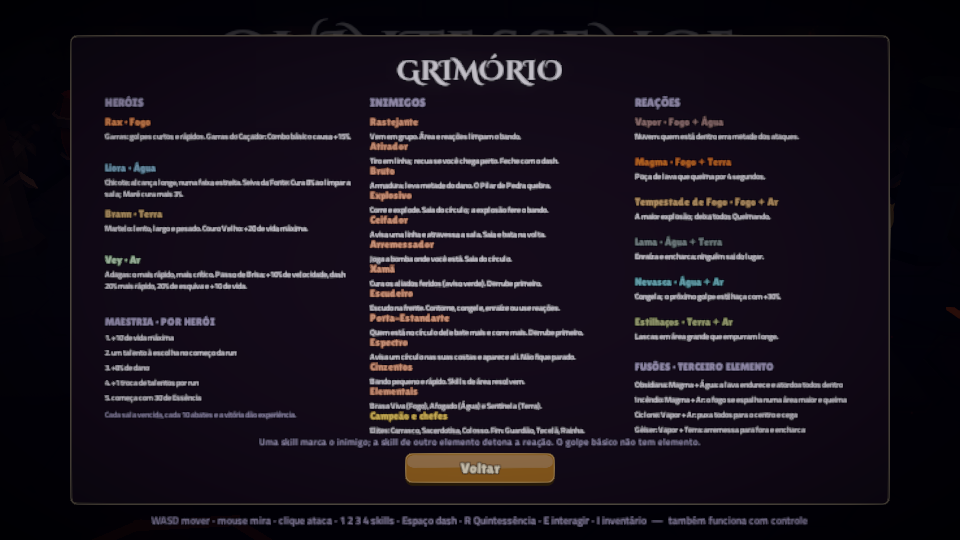
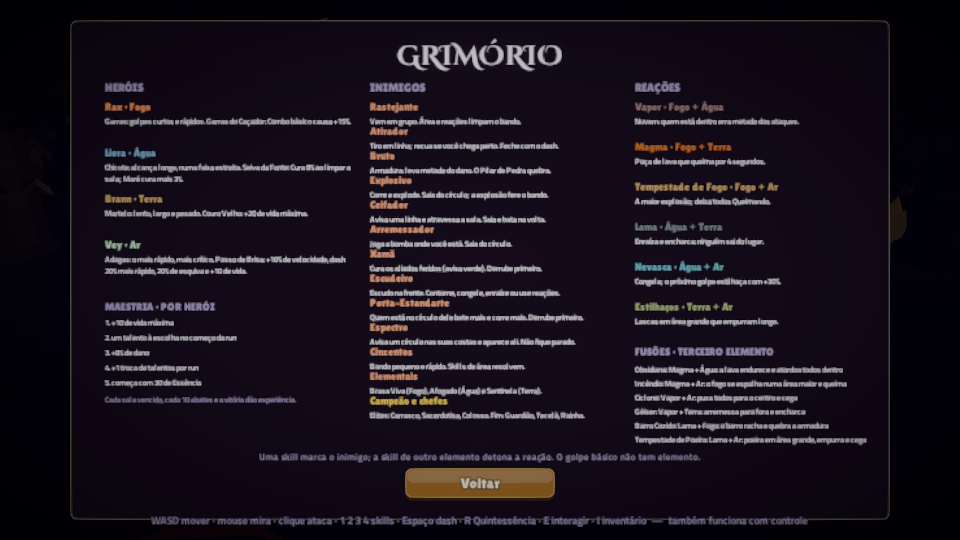
Grimório e inventário com as seis Fusões, uma linha cada

Changed region(s): [[0.0625, 0.0296, 0.9375, 0.9778], [0.9062, 0.3556, 0.9688, 0.4444], [0.9688, 0.563, 1.0, 0.5926]]

diff --git a/docs/progresso.html b/docs/progresso.html
@@ -67,6 +67,10 @@
           <li>Um por sala de luta (dois do meio da run em diante), na cor do elemento do trecho. Um golpe estoura o cristal: fere pouco, aplica o efeito do trecho (queima, encharca ou enraíza) e <b>marca o bando em volta</b>; uma skill de outro elemento logo depois detona reações em todos</li>
           <li>Barril e explosões também estouram o cristal: o cenário entra no combo. Respiradouros e espinhos não ferem cristal, barril nem boneco (só criaturas)</li>
         </ul>
+        <h3 style="margin-top:14px">Duas Fusões novas (seis no total)</h3>
+        <ul>
+          <li>A <b>Lama</b> (Água + Terra) agora deixa um lamaçal de 3,5 s que encharca. Uma skill de terceiro elemento sobre ele vira <b>Barro Cozido</b> (Fogo: o barro endurece e racha, armadura quebrada em quem estava dentro) ou <b>Tempestade de Poeira</b> (Ar: cega e empurra numa área grande)</li>
+        </ul>
         <h3 style="margin-top:14px">Refúgio: Clarividência</h3>
         <ul>
           <li>Oitava melhoria permanente (36 Fragmentos, um nível): <b>cada escolha de talento mostra 4 opções</b> em vez de 3; a tecla 4 escolhe a quarta. Progressão que mexe direto no build</li>

diff --git a/Assets/Game/UI/TitleMenu.cs b/Assets/Game/UI/TitleMenu.cs
@@ -168,7 +168,7 @@ namespace Quintessence.UI
         /// Grimorio: herois, inimigos (e como lidar com cada um) e as seis reacoes.
         public void ShowGrimoire()
         {
-            var box = OpenSheet("GRIMÓRIO", 940, 1640);
+            var box = OpenSheet("GRIMÓRIO", 1000, 1640);
             var top = new Vector2(0, 1);
             void Column(float x, string heading, (string name, string text, Color color)[] rows, float step)
             {
@@ -228,12 +228,13 @@ namespace Quintessence.UI
                 "Uma skill marca o inimigo; a skill de outro elemento detona a reação. O golpe básico não tem elemento.", 20, UiKit.Dim, TextAnchor.MiddleCenter, false);
             // fusoes: abaixo das reacoes
             UiKit.Text(UiKit.Rect("FusH", box, new Vector2(0, 1), new Vector2(1130, -650), new Vector2(500, 30)), "FUSÕES · TERCEIRO ELEMENTO", 22, UiKit.Dim, TextAnchor.MiddleLeft);
-            var fusions = new[] { FusionKind.Obsidian, FusionKind.Wildfire, FusionKind.Cyclone, FusionKind.Geyser };
+            var fusions = new[] { FusionKind.Obsidian, FusionKind.Wildfire, FusionKind.Cyclone, FusionKind.Geyser, FusionKind.Kiln, FusionKind.DustStorm };
             for (int i = 0; i < fusions.Length; i++)
             {
-                var f = UiKit.Text(UiKit.Rect("Fus" + i, box, new Vector2(0, 1), new Vector2(1130, -684 - i * 30), new Vector2(500, 28)),
+                var f = UiKit.Text(UiKit.Rect("Fus" + i, box, new Vector2(0, 1), new Vector2(1130, -684 - i * 28), new Vector2(500, 26)),
                     $"{FusionRules.Name(fusions[i])}: {FusionRules.Describe(fusions[i])}", 16, UiKit.Paper, TextAnchor.MiddleLeft, false);
-                f.horizontalOverflow = HorizontalWrapMode.Wrap;
+                f.horizontalOverflow = HorizontalWrapMode.Wrap; f.verticalOverflow = VerticalWrapMode.Truncate;
+                f.resizeTextForBestFit = true; f.resizeTextMinSize = 11; f.resizeTextMaxSize = 16; // uma linha por fusao
             }
         }
 

diff --git a/Assets/Game/UI/Hud.cs b/Assets/Game/UI/Hud.cs
@@ -708,9 +708,11 @@ namespace Quintessence.UI
                 }
             // fusoes: a skill de um terceiro elemento sobre a area de Magma ou de Vapor
             int awakenedCount = hero != null ? hero.AwakenedElements.Count : 0;
-            UiKit.Text(UiKit.Rect("Fusions", box, new Vector2(0, 1), new Vector2(60, -688), new Vector2(1200, 26)),
-                "FUSÕES (3 elementos): Obsidiana · Magma + Água   Incêndio · Magma + Ar   Ciclone · Vapor + Ar   Gêiser · Vapor + Terra",
+            var fusionLine = UiKit.Text(UiKit.Rect("Fusions", box, new Vector2(0, 1), new Vector2(60, -688), new Vector2(1200, 26)),
+                "FUSÕES (3 elementos): Obsidiana · Magma + Água   Incêndio · Magma + Ar   Ciclone · Vapor + Ar   Gêiser · Vapor + Terra   Barro Cozido · Lama + Fogo   Poeira · Lama + Ar",
                 17, awakenedCount >= 3 ? UiKit.Cream : UiKit.Dim, TextAnchor.MiddleLeft, false);
+            fusionLine.horizontalOverflow = HorizontalWrapMode.Wrap; fusionLine.verticalOverflow = VerticalWrapMode.Truncate;
+            fusionLine.resizeTextForBestFit = true; fusionLine.resizeTextMinSize = 11; fusionLine.resizeTextMaxSize = 17;
             if (talents != null && talents.Count > 0)
             {
                 var seen = new List<string>();

diff --git a/README.md b/README.md
@@ -2,7 +2,7 @@
 
 Action roguelite 3D de câmera top-down: você escolhe um dos quatro heróis (Rax, Liora, Brann ou Vey), começa a run com o elemento dele, desperta os outros três e combina as skills em reações até alcançar a Quintessência. Projeto 3D de Jogos Digitais e Interação (Insper).
 
-**O que tem no jogo:** 4 heróis com golpe básico, passiva e maestria (5 níveis) próprios · 4 skills elementais, 6 reações e 4 fusões com o terceiro elemento · afinidade elemental e poças que marcam pelo elemento do trecho · run de 10 salas em mapa ramificado, por três trechos (Salões de Cinza, Cripta Afogada, Jardim de Pedra) até o Coração das Cinzas · 14 tipos de inimigo (entre eles o Escudeiro, que só cede pelas costas, e um elemental por trecho: Brasa Viva, Afogado e Sentinela), Campeão de Elite com 6 traços, o mini-chefe Carrasco e três chefes finais sorteados por run (o Guardião, a Tecelã das Cinzas e a Rainha Afogada) · nível e 28 talentos, 29 bênçãos, Santuário que desperta ou aprofunda skills, Loja, Tesouro, Pacto, Provação (desafio que paga um talento extra) e Cerco (aguentar ondas sem fim até o tempo acabar) · 27 arranjos de sala (5 exclusivos de cada trecho) com perigos (brasa, espinhos, poças, barril de pólvora) · Refúgio com 8 melhorias permanentes, Ascensão em 5 níveis e 10 Feitos · run salva a cada sala (Continuar no título) · Grimório, treino com o herói escolhido, dicas de primeira vez e opções (volume, tela cheia, tremor de tela e dificuldade Tranquila).
+**O que tem no jogo:** 4 heróis com golpe básico, passiva e maestria (5 níveis) próprios · 4 skills elementais, 6 reações e 6 fusões com o terceiro elemento · afinidade elemental e poças que marcam pelo elemento do trecho · run de 10 salas em mapa ramificado, por três trechos (Salões de Cinza, Cripta Afogada, Jardim de Pedra) até o Coração das Cinzas · 14 tipos de inimigo (entre eles o Escudeiro, que só cede pelas costas, e um elemental por trecho: Brasa Viva, Afogado e Sentinela), Campeão de Elite com 6 traços, o mini-chefe Carrasco e três chefes finais sorteados por run (o Guardião, a Tecelã das Cinzas e a Rainha Afogada) · nível e 28 talentos, 29 bênçãos, Santuário que desperta ou aprofunda skills, Loja, Tesouro, Pacto, Provação (desafio que paga um talento extra) e Cerco (aguentar ondas sem fim até o tempo acabar) · 27 arranjos de sala (5 exclusivos de cada trecho) com perigos (brasa, espinhos, poças, barril de pólvora) · Refúgio com 8 melhorias permanentes, Ascensão em 5 níveis e 10 Feitos · run salva a cada sala (Continuar no título) · Grimório, treino com o herói escolhido, dicas de primeira vez e opções (volume, tela cheia, tremor de tela e dificuldade Tranquila).
 
 **Equipe:** Leonardo de Souza, Nicolas Volf, Enzo Canavero, Miguel Damasio
 **Engine:** Unity `6000.6.4f1` (URP). Use exatamente essa versão.

diff --git a/docs/GDD.md b/docs/GDD.md
@@ -48,6 +48,8 @@ São os heróis do Quintessence 2D. No 3D usam os corpos e as animações do pac
 
 ### Quintessência
 
+**Fusões** (três elementos): Magma, Vapor e Lama deixam área no chão; a skill de um terceiro elemento sobre ela vira Obsidiana (Magma + Água), Incêndio (Magma + Ar), Ciclone (Vapor + Ar), Gêiser (Vapor + Terra), Barro Cozido (Lama + Fogo: quebra a armadura) ou Tempestade de Poeira (Lama + Ar: cega numa área grande).
+
 O quinto estado: o que os elementos eram antes de se separarem. Quem carrega os quatro e os faz reagir o bastante entra nele por alguns segundos, e nesse tempo todo golpe dispara uma reação. É a única coisa que quebra o escudo do Guardião. Ao entrar nele, cada herói solta o seu **despertar**: Rax, a Erupção do Caçador (queima tudo em volta); Liora, a Maré da Fonte (encharca e cura 15% da vida); Brann, o Rugido da Montanha (atordoa); Vey, o Olho do Vendaval (empurra longe e cega).
 
 ### O Guardião das Cinzas
